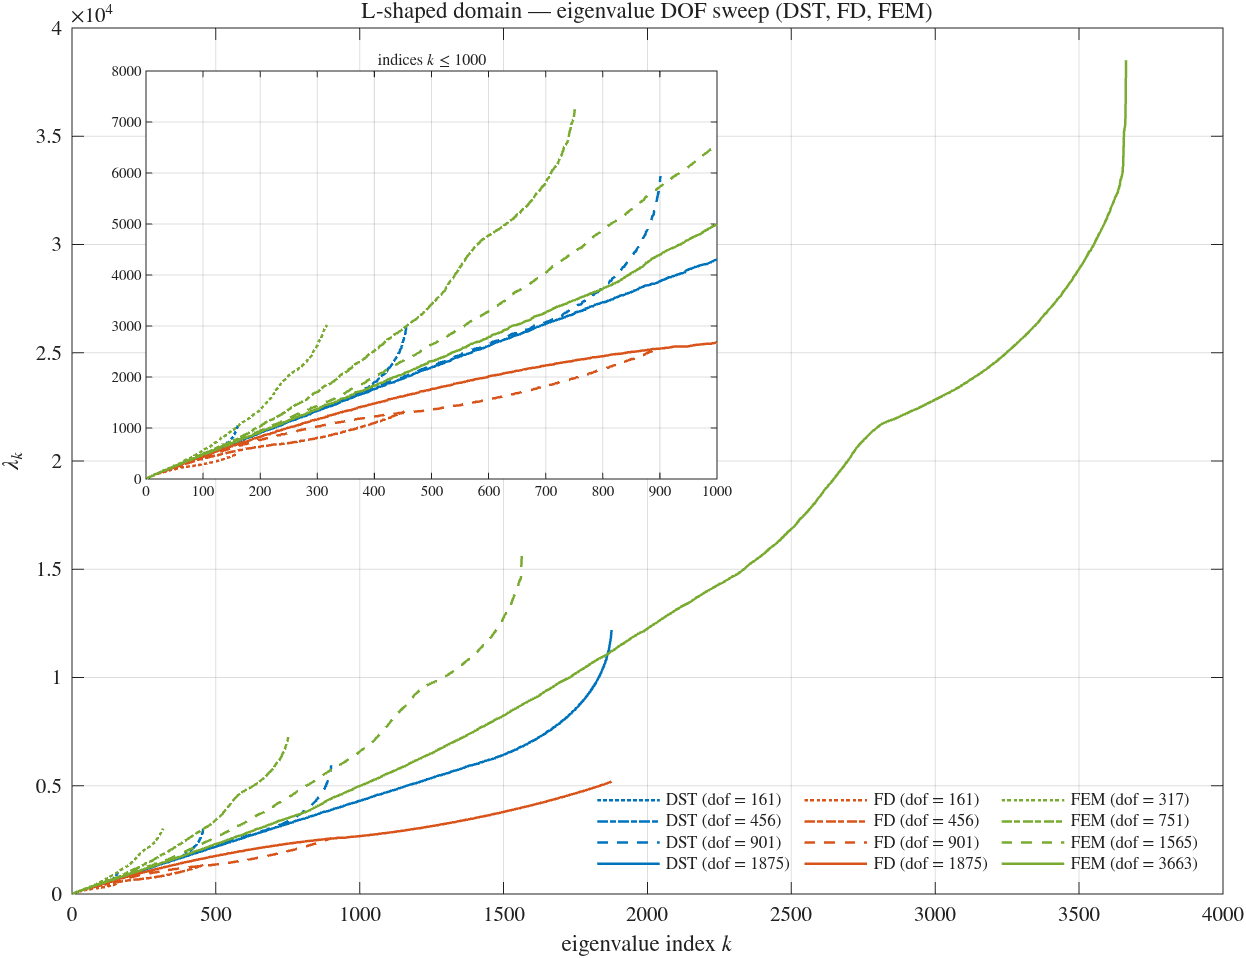
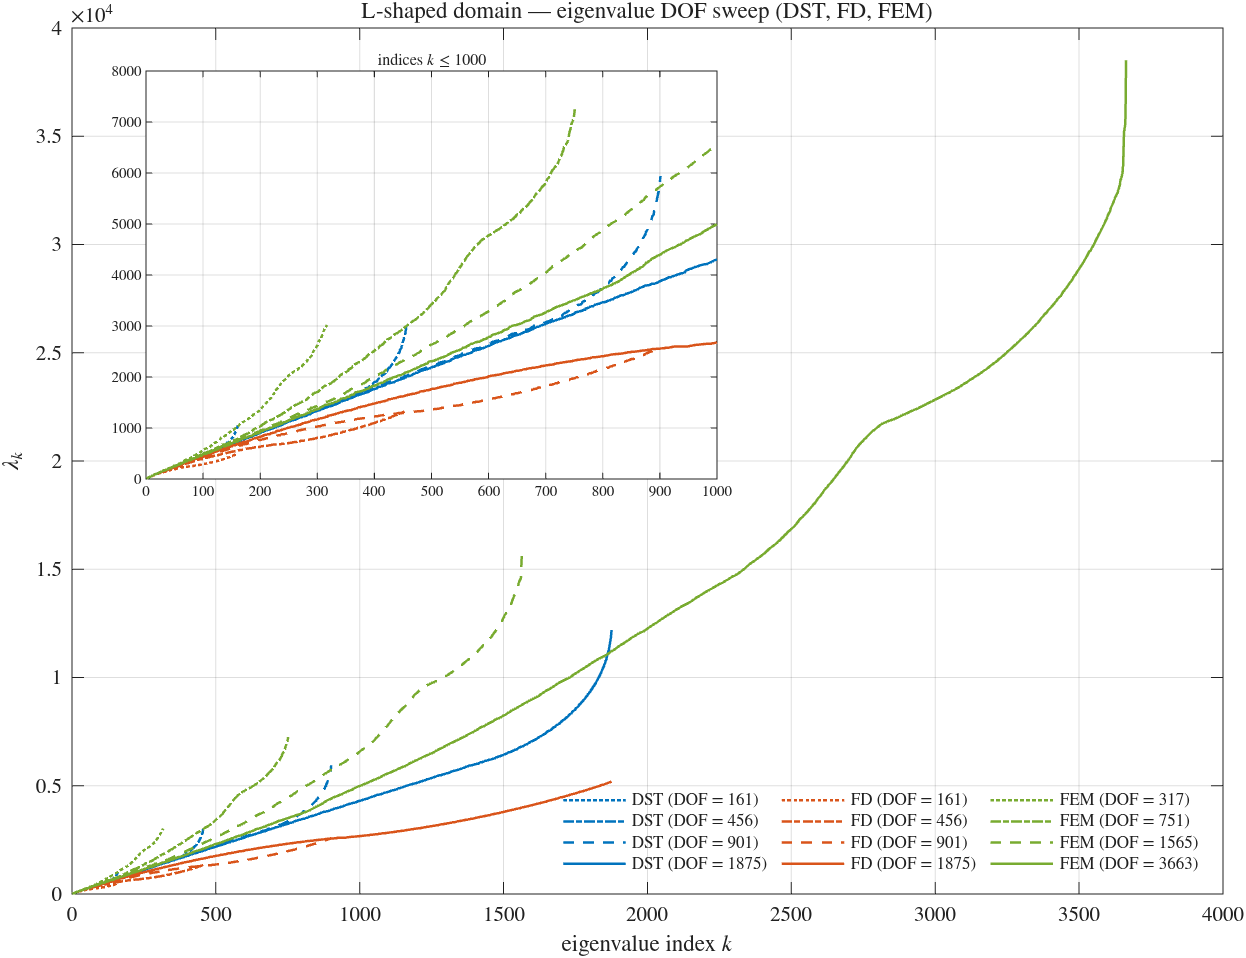
Capitalise DOF in DOF-sweep plot legends
Change the legend entries from "(dof = N)" to "(DOF = N)" in all
DOF-sweep plots (original and paper, black-and-white and colour). Code
identifiers (r.dofs) are unchanged. Figures regenerated from the
existing CSVs, no data recomputed.

Changed region(s): [[0.6709, 0.8173, 0.9759, 0.9081], [0.4575, 0.8173, 0.6404, 0.9081]]

diff --git a/experiments/eigenvalues_dof_sweep/plot_isosceles_triangle_dof_sweep.m b/experiments/eigenvalues_dof_sweep/plot_isosceles_triangle_dof_sweep.m
@@ -89,7 +89,7 @@ function draw_all(ax, results, methods, analytic, colors, labels, styles, nmax, 
             si = mod(k - 1, numel(styles)) + 1;               % cycle the 4 line styles
             lw = 1.2 + 0.9 * floor((k - 1) / numel(styles));  % thicker on each extra cycle
             plot(ax, idx, r.evals(idx), styles{si}, 'Color', colors.(m), 'LineWidth', lw, ...
-                'DisplayName', sprintf('%s (dof = %d)', labels.(m), r.dofs));
+                'DisplayName', sprintf('%s (DOF = %d)', labels.(m), r.dofs));
         end
         % Pad this method's legend column to maxcount with invisible blank rows,
         % so the column-major legend keeps one column per method.

diff --git a/experiments/eigenvalues_dof_sweep/plot_rectangle_dof_sweep.m b/experiments/eigenvalues_dof_sweep/plot_rectangle_dof_sweep.m
@@ -89,7 +89,7 @@ function draw_all(ax, results, methods, analytic, colors, labels, styles, nmax, 
             si = mod(k - 1, numel(styles)) + 1;               % cycle the 4 line styles
             lw = 1.2 + 0.9 * floor((k - 1) / numel(styles));  % thicker on each extra cycle
             plot(ax, idx, r.evals(idx), styles{si}, 'Color', colors.(m), 'LineWidth', lw, ...
-                'DisplayName', sprintf('%s (dof = %d)', labels.(m), r.dofs));
+                'DisplayName', sprintf('%s (DOF = %d)', labels.(m), r.dofs));
         end
         % Pad this method's legend column to maxcount with invisible blank rows,
         % so the column-major legend keeps one column per method.

diff --git a/experiments/eigenvalues_dof_sweep_paper/plot_isosceles_triangle_dof_sweep_paper_colour.m b/experiments/eigenvalues_dof_sweep_paper/plot_isosceles_triangle_dof_sweep_paper_colour.m
@@ -98,7 +98,7 @@ function draw_all(ax, results, methods, analytic, colors, labels, styles, nmax, 
             si = mod(k - 1, numel(styles)) + 1;               % cycle the 4 line styles
             lw = 2.0 + 1.0 * floor((k - 1) / numel(styles));  % thicker on each extra cycle
             plot(ax, idx, r.evals(idx), styles{si}, 'Color', colors.(m), 'LineWidth', lw, ...
-                'DisplayName', sprintf('%s (dof = %d)', labels.(m), r.dofs));
+                'DisplayName', sprintf('%s (DOF = %d)', labels.(m), r.dofs));
         end
         % Pad this method's legend column to maxcount with invisible blank rows,
         % so the column-major legend keeps one column per method.

diff --git a/experiments/eigenvalues_dof_sweep_paper/plot_rectangle_dof_sweep_paper_colour.m b/experiments/eigenvalues_dof_sweep_paper/plot_rectangle_dof_sweep_paper_colour.m
@@ -98,7 +98,7 @@ function draw_all(ax, results, methods, analytic, colors, labels, styles, nmax, 
             si = mod(k - 1, numel(styles)) + 1;               % cycle the 4 line styles
             lw = 2.0 + 1.0 * floor((k - 1) / numel(styles));  % thicker on each extra cycle
             plot(ax, idx, r.evals(idx), styles{si}, 'Color', colors.(m), 'LineWidth', lw, ...
-                'DisplayName', sprintf('%s (dof = %d)', labels.(m), r.dofs));
+                'DisplayName', sprintf('%s (DOF = %d)', labels.(m), r.dofs));
         end
         % Pad this method's legend column to maxcount with invisible blank rows,
         % so the column-major legend keeps one column per method.

diff --git a/experiments/eigenvalues_dof_sweep_paper/plot_isosceles_triangle_dof_sweep_paper.m b/experiments/eigenvalues_dof_sweep_paper/plot_isosceles_triangle_dof_sweep_paper.m
@@ -100,7 +100,7 @@ function draw_all(ax, results, methods, analytic, mstyle, markers, labels, nmax,
             plot(ax, idx, r.evals(idx), mstyle.(m), 'Color', 'k', 'LineWidth', 1.1, ...
                 'Marker', mk, 'MarkerSize', 5, 'MarkerEdgeColor', 'k', ...
                 'MarkerFaceColor', 'none', 'MarkerIndices', marker_idx(numel(idx), k), ...
-                'DisplayName', sprintf('%s (dof = %d)', labels.(m), r.dofs));
+                'DisplayName', sprintf('%s (DOF = %d)', labels.(m), r.dofs));
         end
         % Pad this method's legend column to maxcount with invisible blank rows,
         % so the column-major legend keeps one column per method.

diff --git a/experiments/eigenvalues_dof_sweep_paper/plot_rectangle_dof_sweep_paper.m b/experiments/eigenvalues_dof_sweep_paper/plot_rectangle_dof_sweep_paper.m
@@ -100,7 +100,7 @@ function draw_all(ax, results, methods, analytic, mstyle, markers, labels, nmax,
             plot(ax, idx, r.evals(idx), mstyle.(m), 'Color', 'k', 'LineWidth', 1.1, ...
                 'Marker', mk, 'MarkerSize', 5, 'MarkerEdgeColor', 'k', ...
                 'MarkerFaceColor', 'none', 'MarkerIndices', marker_idx(numel(idx), k), ...
-                'DisplayName', sprintf('%s (dof = %d)', labels.(m), r.dofs));
+                'DisplayName', sprintf('%s (DOF = %d)', labels.(m), r.dofs));
         end
         % Pad this method's legend column to maxcount with invisible blank rows,
         % so the column-major legend keeps one column per method.

diff --git a/experiments/eigenvalues_dof_sweep_paper/plot_L_shaped_dof_sweep_paper.m b/experiments/eigenvalues_dof_sweep_paper/plot_L_shaped_dof_sweep_paper.m
@@ -79,7 +79,7 @@ function draw_curves(ax, results, methods, mstyle, markers, labels, nmax)
             plot(ax, idx, r.evals(idx), mstyle.(m), 'Color', 'k', 'LineWidth', 1.1, ...
                 'Marker', mk, 'MarkerSize', 5, 'MarkerEdgeColor', 'k', ...
                 'MarkerFaceColor', 'none', 'MarkerIndices', marker_idx(numel(idx), k), ...
-                'DisplayName', sprintf('%s (dof = %d)', labels.(m), r.dofs));
+                'DisplayName', sprintf('%s (DOF = %d)', labels.(m), r.dofs));
         end
     end
     hold(ax, 'off');

diff --git a/experiments/eigenvalues_dof_sweep/plot_L_shaped_dof_sweep.m b/experiments/eigenvalues_dof_sweep/plot_L_shaped_dof_sweep.m
@@ -65,7 +65,7 @@ function draw_curves(ax, results, methods, colors, labels, styles, nmax)
             si = mod(k - 1, numel(styles)) + 1;
             lw = 1.2 + 0.9 * floor((k - 1) / numel(styles));
             plot(ax, idx, r.evals(idx), styles{si}, 'Color', colors.(m), 'LineWidth', lw, ...
-                'DisplayName', sprintf('%s (dof = %d)', labels.(m), r.dofs));
+                'DisplayName', sprintf('%s (DOF = %d)', labels.(m), r.dofs));
         end
     end
     hold(ax, 'off');

diff --git a/experiments/eigenvalues_dof_sweep_paper/plot_L_shaped_dof_sweep_paper_colour.m b/experiments/eigenvalues_dof_sweep_paper/plot_L_shaped_dof_sweep_paper_colour.m
@@ -75,7 +75,7 @@ function draw_curves(ax, results, methods, colors, labels, styles, nmax)
             si = mod(k - 1, numel(styles)) + 1;
             lw = 2.0 + 1.0 * floor((k - 1) / numel(styles));
             plot(ax, idx, r.evals(idx), styles{si}, 'Color', colors.(m), 'LineWidth', lw, ...
-                'DisplayName', sprintf('%s (dof = %d)', labels.(m), r.dofs));
+                'DisplayName', sprintf('%s (DOF = %d)', labels.(m), r.dofs));
         end
     end
     hold(ax, 'off');
